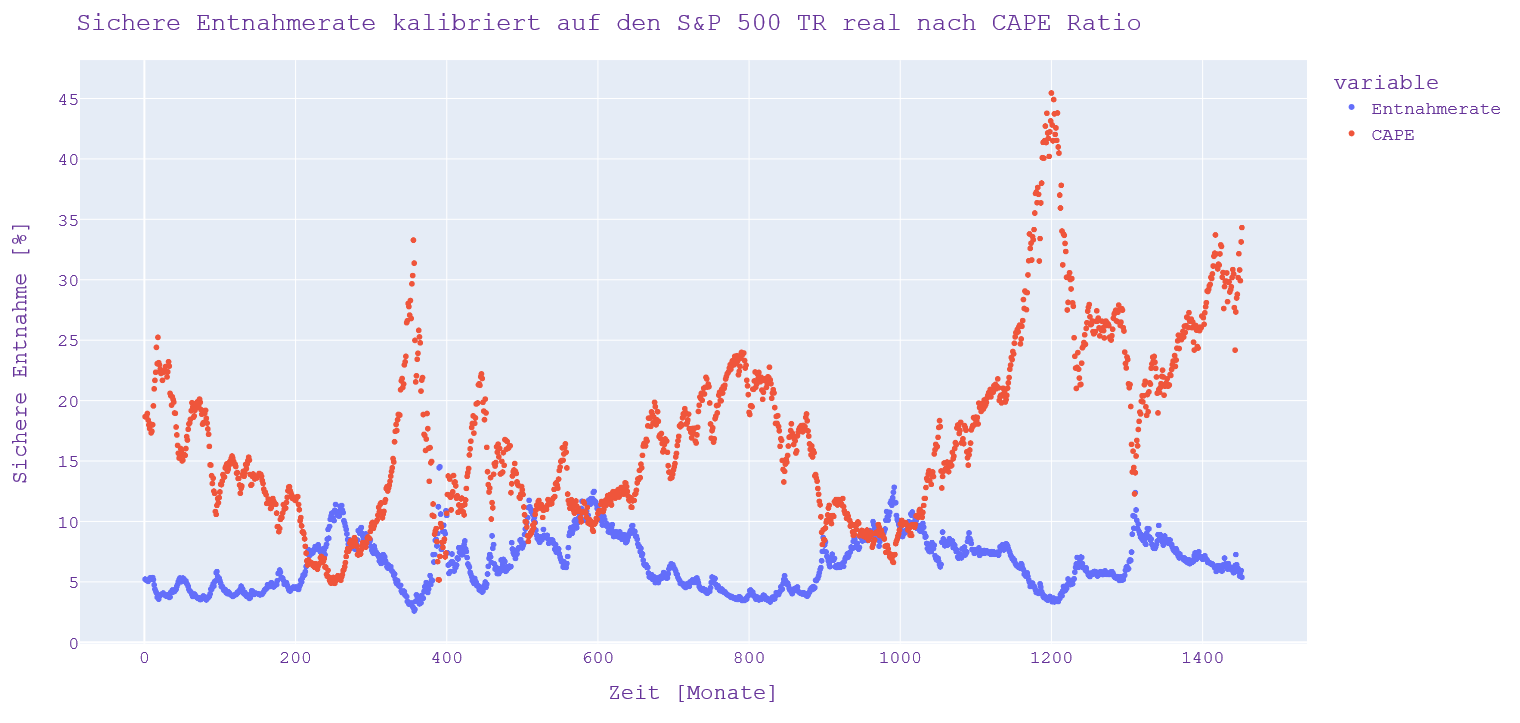
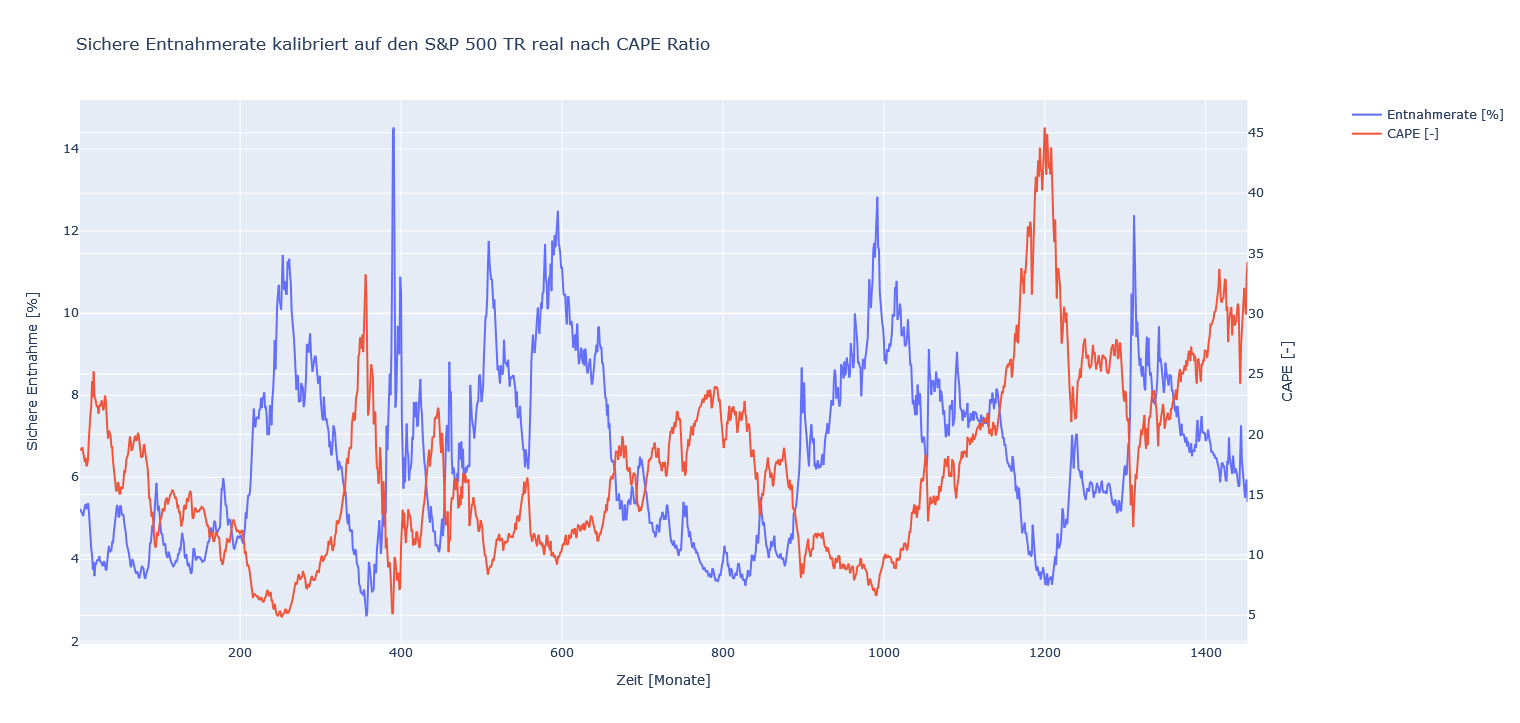
Neues Bild mit zwei y-Achsen

diff --git a/SichereEntnahmeCAPE.py b/SichereEntnahmeCAPE.py
@@ -11,6 +11,10 @@ from SEsimulation.mDate import mDate
 from SEsimulation import SEsimulation
 import plotly.express as px
 
+import plotly.graph_objects as go
+from plotly.subplots import make_subplots
+
+
 def optimize(s, probability, loBound, hiBound):
     """ Optimiere auf die max. mögliche Entnahme bei einer vorgegebenen Fehlerquote
 
@@ -115,18 +119,29 @@ if __name__ == "__main__":
             df.iloc[row_indexer, 1] = tmp.iloc[0]
             row_indexer += 1
 
-    fig = px.scatter(df)
 
-    fig.update_layout(
-        title="Sichere Entnahmerate kalibriert auf den S&P 500 TR real nach CAPE Ratio",
-        xaxis_title="Zeit [Monate]",
-        yaxis_title="Sichere Entnahme [%]",
-        font=dict(
-            family="Courier New, monospace",
-            size=18,
-            color="RebeccaPurple"
-        )
+    fig = make_subplots(specs=[[{"secondary_y": True}]])
+
+    # Add traces
+    fig.add_trace(
+        go.Scatter(x=df.index, y=df['Entnahmerate'], name="Entnahmerate [%]"),
+        secondary_y=False,
     )
+
+    fig.add_trace(
+        go.Scatter(x=df.index, y=df['CAPE'], name="CAPE [-]"),
+        secondary_y=True,
+    )
+
+    # Add figure title
+    fig.update_layout(title_text="Sichere Entnahmerate kalibriert auf den S&P 500 TR real nach CAPE Ratio")
+
+    # Set x-axis title
+    fig.update_xaxes(title_text="Zeit [Monate]")
+
+    # Set y-axes titles
+    fig.update_yaxes(title_text="Sichere Entnahme [%]", secondary_y=False)
+    fig.update_yaxes(title_text="CAPE [-]", secondary_y=True)
     fig.show()
 
     fig = px.scatter(df, y='Entnahmerate', x='CAPE')
